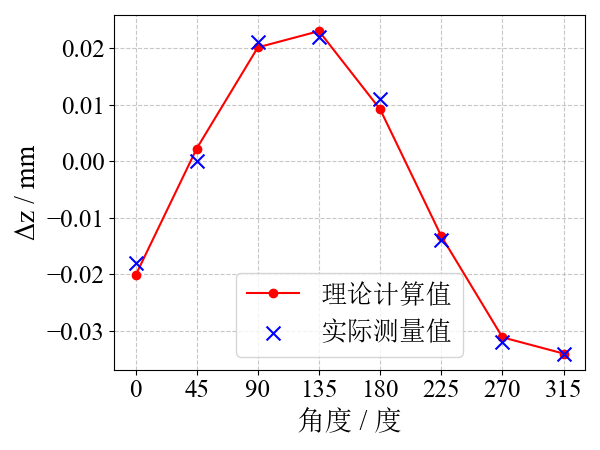
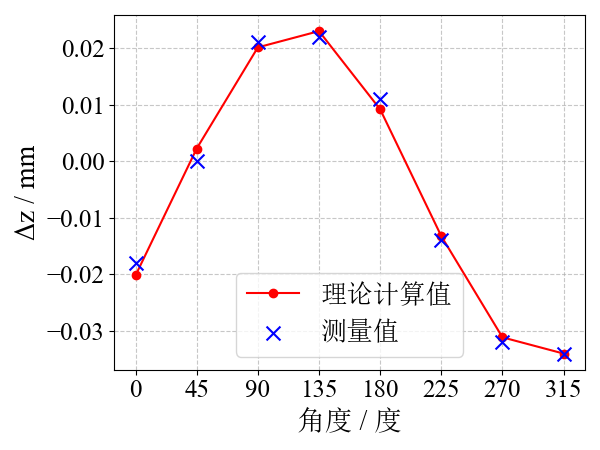
更改两个图片的图题，让其一致

Changed region(s): [[0.54, 0.6844, 0.75, 0.7778]]

diff --git a/数据处理与寄存中心/chapter5/假设过圆心的旋转模型-以否决/QWQ-thetaphi.py b/数据处理与寄存中心/chapter5/假设过圆心的旋转模型-以否决/QWQ-thetaphi.py
@@ -153,8 +153,8 @@ def new_method():
     # 绘制预测值
     plt.plot(alpha_deg, predicted_h, "r-", label="理论计算值", marker="o")
 
-    plt.xlabel("旋转角度α (度)", fontsize=label_size)  # 添加字体大小
-    plt.ylabel("Δz (mm)", fontsize=label_size)  # 添加字体大小
+    plt.xlabel("角度 / 度", fontsize=label_size)  # 添加字体大小
+    plt.ylabel("Δz / mm", fontsize=label_size)  # 添加字体大小
     plt.xticks(np.arange(0, 360, 45), fontsize=axis_size)  # 设置刻度字体
     plt.yticks(fontsize=axis_size)  # 设置刻度字体
     plt.legend(fontsize=legend_size)  # 添加图例字体大小

diff --git a/数据处理与寄存中心/chapter5/假设不过圆心的旋转模型-正在提议/QWQ-验证脚本.py b/数据处理与寄存中心/chapter5/假设不过圆心的旋转模型-正在提议/QWQ-验证脚本.py
@@ -81,7 +81,7 @@ def qwq_part1():
         marker="x",
         color="blue",
         s=100,
-        label="实际测量值",
+        label="测量值",
         zorder=3,
     )
 
